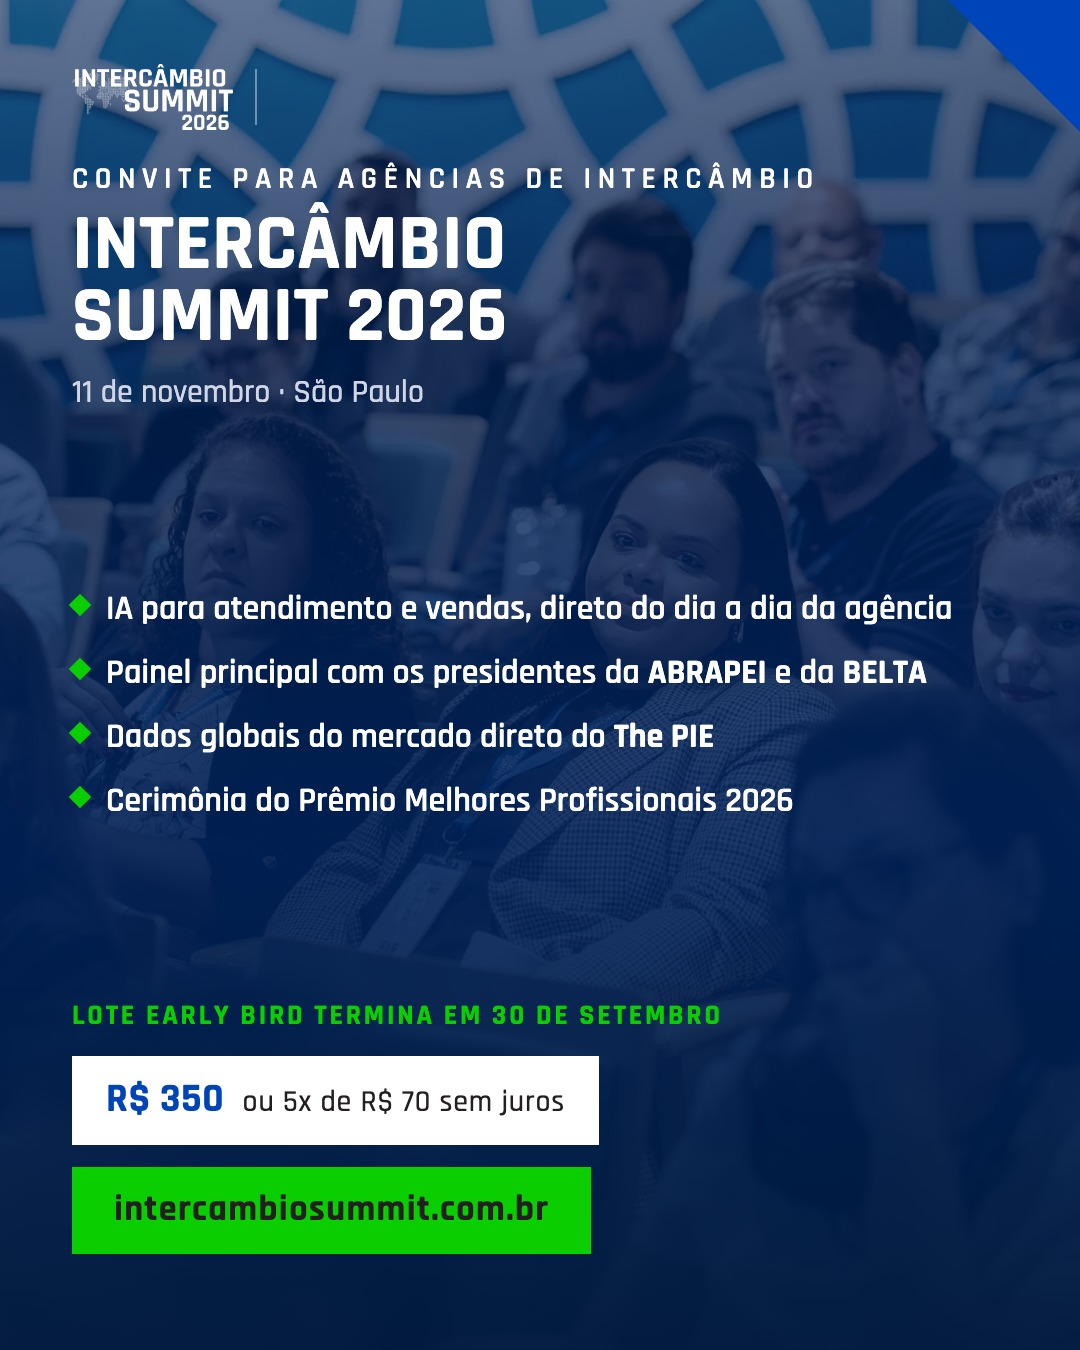
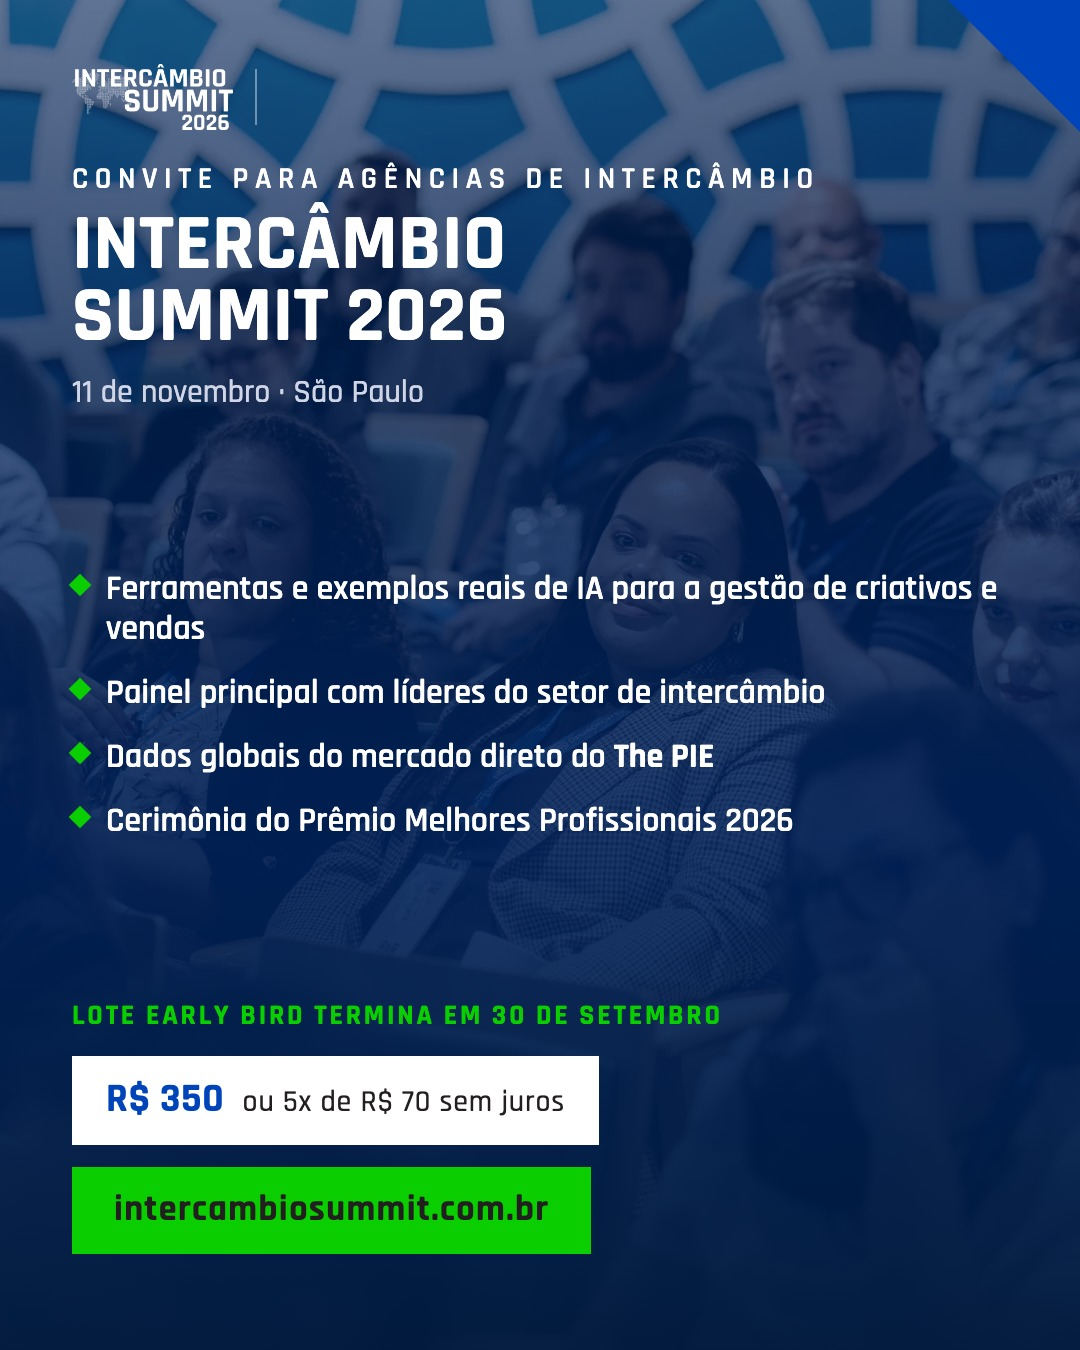
Ajusta highlights das artes de convite: gestão de criativos com IA e painel com líderes do setor

Changed region(s): [[0.0611, 0.4044, 0.9167, 0.6222]]

diff --git a/criativos/templates/convite-agencias.html b/criativos/templates/convite-agencias.html
@@ -61,8 +61,8 @@
     <p class="quando-conv">11 de novembro · São Paulo</p>
 
     <ul class="highlights">
-      <li><span class="marca"></span><span class="txt">IA para atendimento e vendas, direto do dia a dia da agência</span></li>
-      <li><span class="marca"></span><span class="txt">Painel principal com os presidentes da <strong>ABRAPEI</strong> e da <strong>BELTA</strong></span></li>
+      <li><span class="marca"></span><span class="txt">Ferramentas e exemplos reais de IA para a gestão de criativos e vendas</span></li>
+      <li><span class="marca"></span><span class="txt">Painel principal com líderes do setor de intercâmbio</span></li>
       <li><span class="marca"></span><span class="txt">Dados globais do mercado direto do <strong>The PIE</strong></span></li>
       <li><span class="marca"></span><span class="txt">Cerimônia do Prêmio Melhores Profissionais 2026</span></li>
     </ul>
